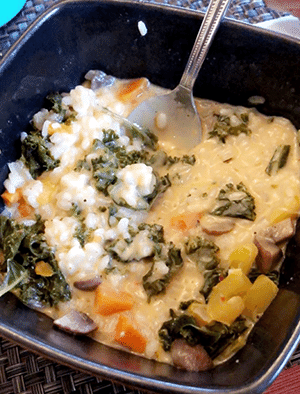
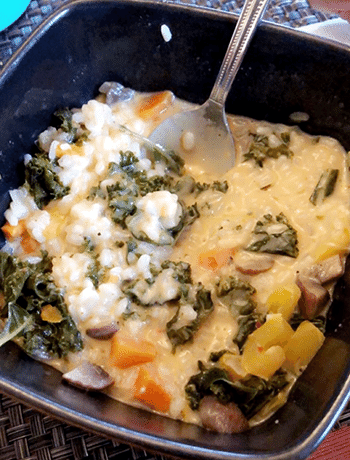
photo and tags
changed tag named, adjusted photo sizes

diff --git a/recipes/curry.html b/recipes/curry.html
@@ -14,7 +14,7 @@
       </header>
 
       <main>
-        <section id="ingredients">
+        <div id="ingredients">
           <h2>Ingredients</h2>
           <ul>
             <li>1 16 oz can of chickpeas</li>
@@ -40,9 +40,9 @@
             <li>1 teaspoon of 'Trader Joes Mushroom & Co. Multipurpose Umami Seasoning Blend'</li>
             <li>1/2 teaspoon of dried black garlic</li>
           </ul>
-        </section>
+        </div>
 
-        <section id="instructions">
+        <div id="instructions">
           <h2>Instructions</h2>
           <ol>
             <li>Rinse your rice and add it to either a pot or rice cooker along with the water. Cook to package instructions.</li>
@@ -53,10 +53,10 @@
             <li>Adjust the flavors by adding more sweetness, saltiness, and/or spice.</li>
             <li>Serve immediately over rice and enjoy.</li>
           </ol>
-        </section>
+        </div>
 
 
-        <section id="notes">
+        <div id="notes">
           <h2>Notes</h2>
           <ul>
             <li id="neutral-oil">*I use extra virgin oilive oil but feel free to use any oil of your choosing or none at all. If you choose to use none, replace with a 2 tablespoons of water.</li>
@@ -64,8 +64,7 @@
             <li id="sweetner">*You can change the amount of sweetner depending on how you like your curry. I enjoy mine, slighly sweet so I add a bit more. However, you can omit all together.</li>
             <li id="chili">*If you want an added layer of spice, you can add chili oil and the red chili flakes. However, feel free to omit both if sensitive to spice.</li>
           </ul>
-        </section>
-
+        </div>
 
         <figure>
           <img src="../images/curry.png" alt="Chickpea Coconut Curry" />

diff --git a/CSS/style.css b/CSS/style.css
@@ -104,7 +104,6 @@ footer {
   background-color: #BECEFB; /*darker periwinkle*/
   border: 5px solid #0f0602ff; /*smoky black*/
   margin-top: 15px;
-
 }
 
 #home header {
